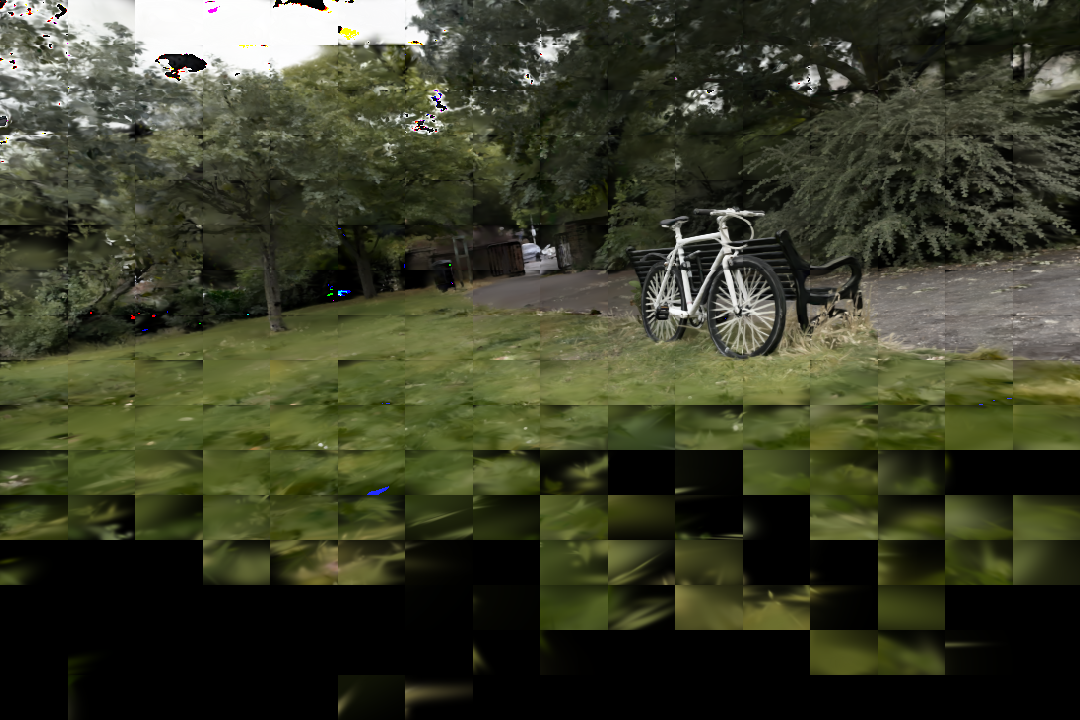
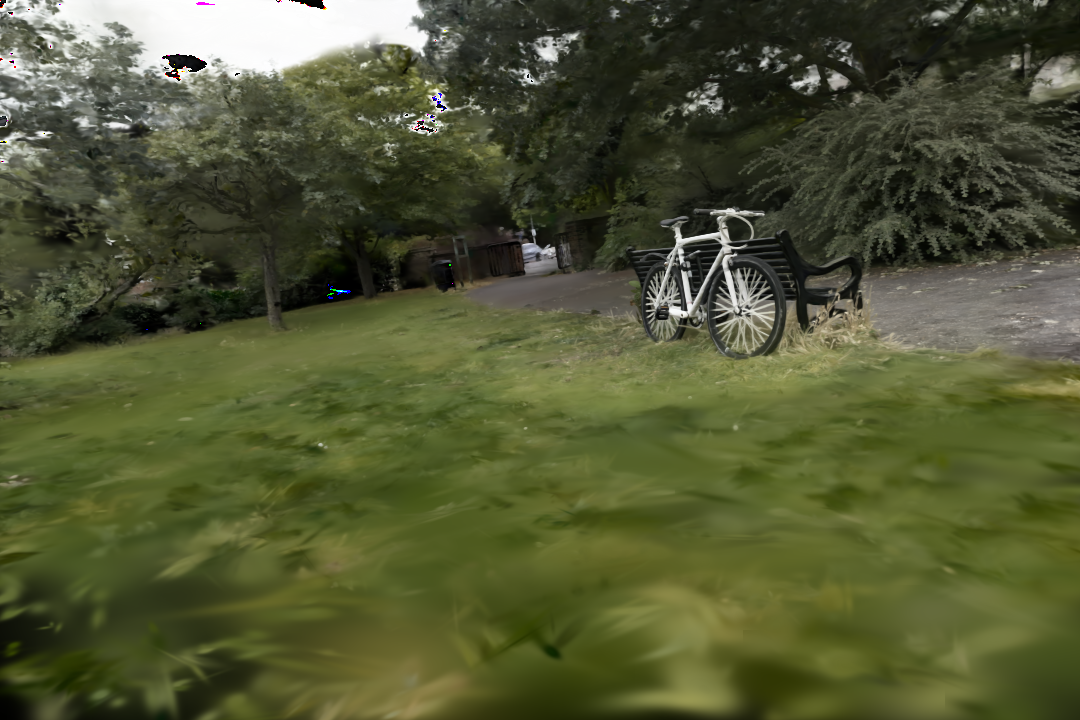
added splat duplication for the tiled renderer

diff --git a/src/Splats.cpp b/src/Splats.cpp
@@ -838,13 +838,18 @@ Splats::cpuRender(glm::mat4 viewMatrix, int width, int height, float focal_x, fl
     //create the image to render to, as a 2D vector of vec4s
     std::vector<std::vector<glm::vec4>> image(width, std::vector<glm::vec4>(height, glm::vec4(0, 0, 0, 0)));
     //vector for the depth buffer for each splat
-    std::vector<float> depthVector(numSplats);
+    std::vector<float> depthVector(numSplats * 2);
     //vector for the pixel-projected means
     std::vector<glm::vec2> projectedMeans(numSplats);
     //vector for the pixel-projected 2D covariance matrices
     std::vector<glm::vec4> projectedCovariances(numSplats);
     //vector for the bounding radii of the splats
     std::vector<float> boundingRadii(numSplats);
+    //vector for the index of the splat
+    std::vector<int> splatKeys(numSplats * 2);
+    //vector for the index of the depth buffer (to sort the splats)
+    std::vector<int> indices(numSplats * 2);
+
     int bins[256];
     for (int i = 0; i < 256; i++)
     {
@@ -854,11 +859,13 @@ Splats::cpuRender(glm::mat4 viewMatrix, int width, int height, float focal_x, fl
     double timer = glfwGetTime();
     float tileWidth = width / 16.f;
     float tileHeight = height / 16.f;
-    /*
+    int numDupes = 0;
+#ifndef GPUPREPROCESS
 
     // for each splat, project the mean
     for (int i = 0; i < numSplats; i++)
     {
+        indices[i] = i;
         //project the mean
         glm::vec3 t = viewMatrix * means3D[i];
         float limx = -1.3f * tan_fov_x;
@@ -943,22 +950,46 @@ Splats::cpuRender(glm::mat4 viewMatrix, int width, int height, float focal_x, fl
             continue;
         }
 
-        //calculate the tile the splat is in
+        int tileMinX = fmax(0, (int) (projectedMean[0] - radius) / tileWidth);
+        int tileMaxX = fmin(15, (int) (projectedMean[0] + radius) / tileWidth);
+        int tileMinY = fmax(0, (int) (projectedMean[1] - radius) / tileHeight);
+        int tileMaxY = fmin(15, (int) (projectedMean[1] + radius) / tileHeight);
+        //calculate the main tile the splat is in
         int tileX = projectedMean[0] / tileWidth;
         int tileY = projectedMean[1] / tileHeight;
         //calculate the bin the splat is in
         int tileIndex = tileY * 16 + tileX;
         bins[tileIndex]++;
-
         depthVector[i] = projectedMean[2] + tileIndex;
+        splatKeys[i] = i;
+
+        //for each tile the splat is in, duplicate the splat
+        for(int y=tileMinY; y<=tileMaxY; y++)
+        {
+            for(int x=tileMinX; x<=tileMaxX; x++)
+            {
+                if(x == tileX && y == tileY)
+                {
+                    continue;
+                }
+                tileIndex = y * 16 + x;
+                bins[tileIndex]++;
+                int dupedIndex = numSplats + numDupes++;
+                depthVector[dupedIndex] = projectedMean[2] + tileIndex;
+                splatKeys[dupedIndex] = i;
+                indices[dupedIndex] = dupedIndex;
+            }
+        }
 
     }
+    std::cout << numDupes << " duplicates" << std::endl;
     //prefix sum the bins
     for (int i = 1; i < 256; i++)
     {
         bins[i] += bins[i - 1];
-    }*/
-
+    }
+#endif
+#ifdef GPUPREPROCESS
     // GPU pre-processing
 
 
@@ -1015,13 +1046,11 @@ Splats::cpuRender(glm::mat4 viewMatrix, int width, int height, float focal_x, fl
     glUnmapBuffer(GL_SHADER_STORAGE_BUFFER);
 
     std::cout << "Time taken to project means: " << glfwGetTime() - timer << std::endl;
+#endif
     timer = glfwGetTime();
     //sort the splats by depth
-    std::vector<int> indices(numSplats);
-    //fill the indices vector with the numbers 0 to numSplats
-    std::iota(indices.begin(), indices.end(), 0);
     //sort the indices by the depth buffer
-    std::sort(indices.begin(), indices.end(), [&depthVector](int i1, int i2)
+    std::sort(indices.begin(), indices.begin() + numSplats + numDupes, [&depthVector](int i1, int i2)
     { return depthVector[i1] < depthVector[i2]; });
     std::cout << "Time taken to sort: " << glfwGetTime() - timer << std::endl;
 
@@ -1041,7 +1070,7 @@ Splats::cpuRender(glm::mat4 viewMatrix, int width, int height, float focal_x, fl
             int end = bins[tileIndex];
             for(int i=start; i<end; i++)
             {
-                int index = indices[i];
+                int index = splatKeys[indices[i]];
                 glm::vec2 projectedMean = projectedMeans[index];
                 //if projected mean x or y are less than 0, or greater than the width or height, continue
                 if(projectedMean.x < 0 || projectedMean.x > width || projectedMean.y < 0 || projectedMean.y > height)
